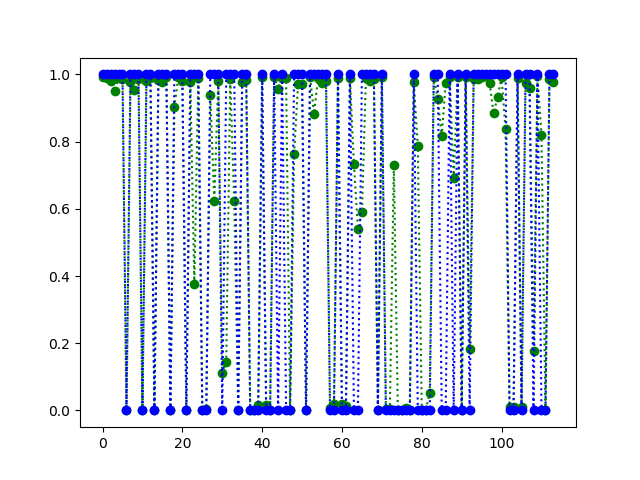
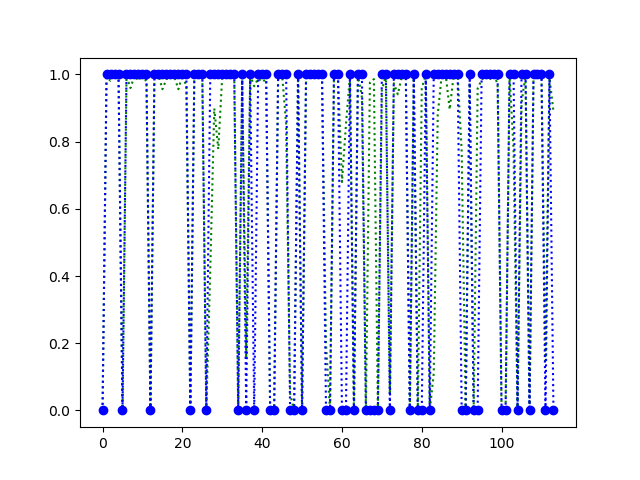
saved nn data to files

Changed region(s): [[0.1562, 0.125, 0.875, 0.875]]

diff --git a/optimizer_evaluation/adam_evaluator.py b/optimizer_evaluation/adam_evaluator.py
@@ -1,4 +1,5 @@
 import matplotlib.pyplot as plt
+import json
 
 import optimizer_evaluation
 from optimizer_evaluation.data_evaluator import Data_Evaluator
@@ -30,10 +31,17 @@ class ADAMEvaluator(Data_Evaluator):
                        metrics=metrics)
 
             nn.fit(X_train.values, y_train.values, epochs=20, batch_size=1)
+
+            nn_json = nn.to_json()
+            with open("./res/"+name+".json", "w") as json_file:
+                json_file.write(nn_json)
+
+            nn.save_weights("./res/"+name+".h5")
+
             predict = nn.predict(X_test.values, batch_size=1)
 
             fig, ax = plt.subplots(1, 1)
-            ax.plot(predict, color='green', marker='o', linestyle='dotted')
+            ax.plot(predict, color='green', marker=' ', linestyle='dotted')
             ax.plot(y_test.values, color='blue',
                     marker='o', linestyle='dotted')
             plt.savefig("docs/"+name+"/"+name+"_test.png")

diff --git a/optimizer_evaluation/datasets.py b/optimizer_evaluation/datasets.py
@@ -16,7 +16,8 @@ class DataSets:
 
     _data_breast_cancer = skdatasets.load_breast_cancer()
     _X_breast_cancer = pd.DataFrame(
-        data=_data_breast_cancer.data, columns=_data_breast_cancer.feature_names)
+        data=_data_breast_cancer.data, 
+        columns=_data_breast_cancer.feature_names)
     _y_breast_cancer = pd.DataFrame(
         data=_data_breast_cancer.target, columns=['class'])
 

diff --git a/optimizer_evaluation/data_preparation.py b/optimizer_evaluation/data_preparation.py
@@ -1,12 +1,10 @@
 import matplotlib.pyplot as plt
 import numpy as np
 import pandas as pd
-import seaborn as sns
 import sklearn.datasets as datasets
 from sklearn.model_selection import train_test_split
 from keras.layers import Dense
 from keras.models import Sequential
-import optimizer_evaluation
 
 data_boston = datasets.load_boston()
 X_boston = pd.DataFrame(data=data_boston.data,
